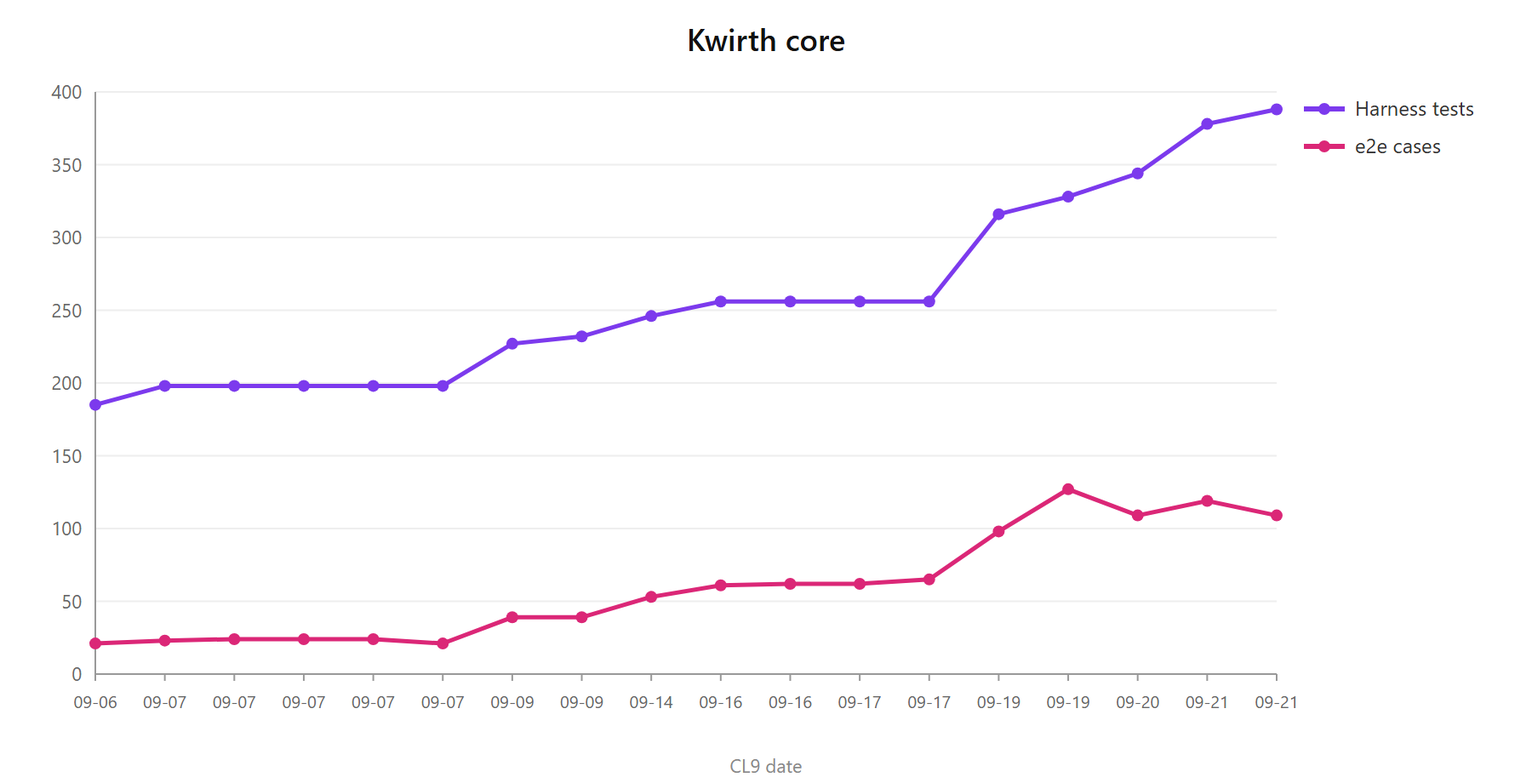
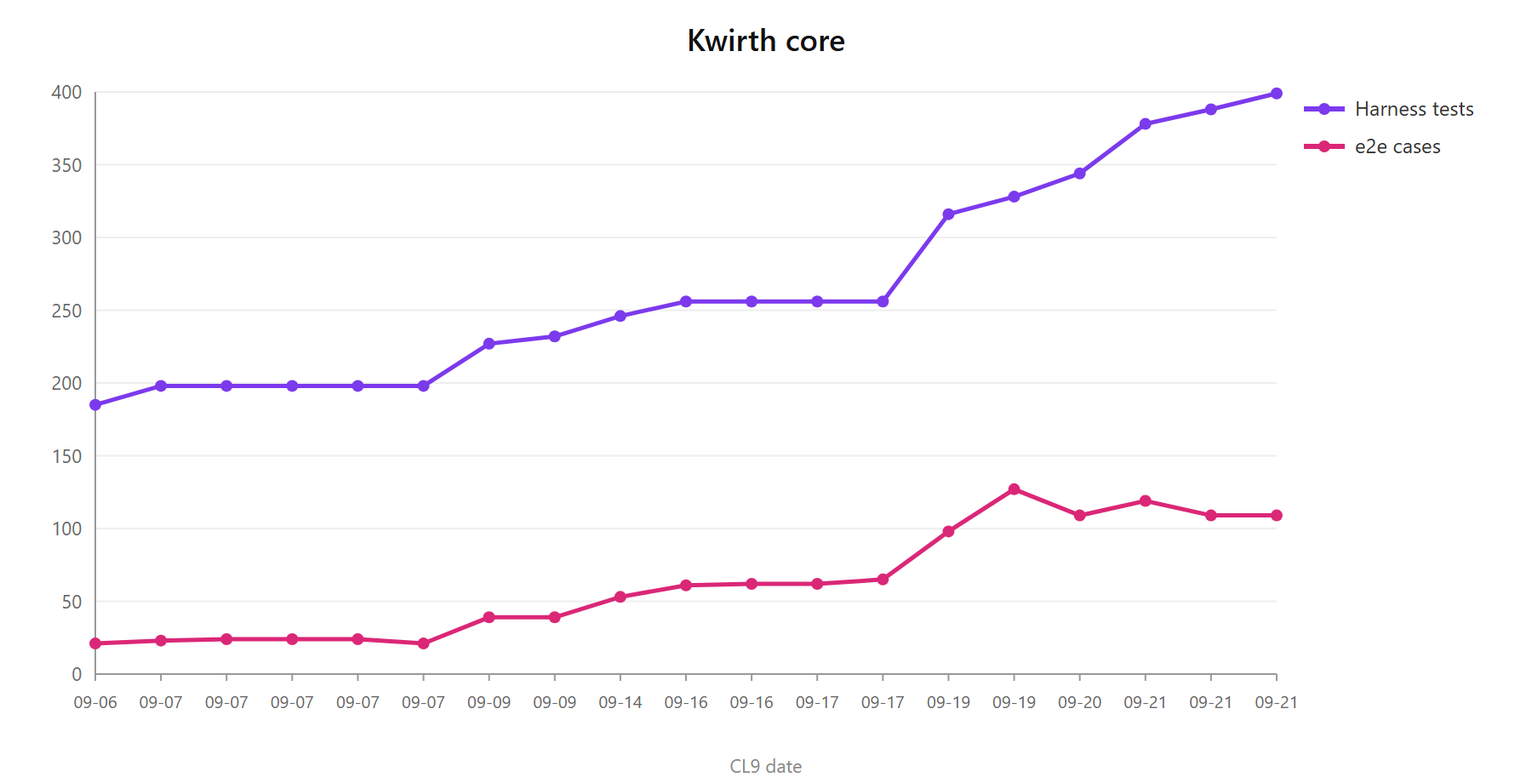
test(core): la cobertura estaba mal medida, y theme/homepage no tenian un solo test
El 50% que veniamos apuntando era un artefacto: el runner bundleaba un fichero por test, cada
bundle arrastraba su PROPIA copia del src, y el informe los trataba como ficheros distintos —
hacia la MEDIA de esas copias en vez de la UNION, contando como no cubierto todo el src que ese
test concreto no toca. La pista estaba en el desglose, que listaba tests/.out/*.test.mjs y no src/.

Con el entry unico (el mismo arreglo que ya llevaban montag, agora y provider-debug) la MISMA
suite, sin un test nuevo, pasa de 50.92% a 79.23%.

Y lo que si es trabajo: ThemeManager y HomepageManager no tenian ningun test. Ahora llevan 11, que
fijan lo aprendido a base de sustos:
  · las dos formas de tgz —entradas en la raiz y dentro de package/— instalan igual;
  · un front que no cabe en el ConfigMap no se guarda ahi y se recupera del origen, con cache;
  · la cache se invalida al instalar y al desinstalar.

De paso se alinean con los otros cuatro managers: ya borraban la cache al desinstalar, pero NO al
instalar, que es justo el caso de actualizar — seguirian sirviendo el front viejo mientras el pod
siguiera vivo.

399 tests. El global queda en 78.78% porque esas ~490 lineas entran AHORA en el denominador: antes
no aparecian en el informe porque ningun test las importaba. Quedan 42 de 83 ficheros del src sin
aparecer en ningun test.

diff --git a/back/tests/tools/themeManager.test.ts b/back/tests/tools/themeManager.test.ts
@@ -1,0 +1,257 @@
+import { test } from 'node:test'
+import assert from 'node:assert/strict'
+import { mkdtempSync, mkdirSync, writeFileSync, rmSync, existsSync, readFileSync } from 'node:fs'
+import os from 'node:os'
+import path from 'node:path'
+import tar from 'tar'
+import { randomBytes } from 'node:crypto'
+import { ThemeManager } from '../../src/tools/ThemeManager'
+import { HomepageManager } from '../../src/tools/HomepageManager'
+import { IConfigMaps } from '../../src/tools/IConfigMap'
+import { cachedExtensionFile } from '../../src/tools/PackageRegistries'
+
+/*
+    Instalacion de temas y homepages, que son gemelos y no tenian ningun test.
+
+    Lo que importa aqui, y que se aprendio a base de sustos:
+
+      · un tgz puede traer las entradas en la RAIZ (los que armamos a mano) o dentro de 'package/' (todo
+        lo que sale de `npm publish`), y las dos formas tienen que instalar igual;
+      · un front que no cabe en el ConfigMap (~1 MiB por objeto en etcd) NO se guarda ahi: se marca
+        `frontStored: false` y se recupera del origen, con cache en /tmp;
+      · esa cache HAY que invalidarla al instalar y al desinstalar. No lleva la version en el nombre, asi
+        que sin borrarla una actualizacion seguiria sirviendo el front VIEJO mientras el pod siga vivo.
+*/
+
+interface IStoreView { configMaps: Map<string, any> }
+
+const makeConfigMaps = () => {
+    const store: IStoreView = { configMaps: new Map() }
+    const configMaps: IConfigMaps = {
+        write: async (name: string, data: any) => { store.configMaps.set(name, data) },
+        read: async (name: string, defaultValue?: any) => store.configMaps.has(name) ? store.configMaps.get(name) : defaultValue,
+        writeKey: async () => {},
+        readAllKeys: async () => ({})
+    }
+    return { configMaps, store }
+}
+
+interface IBundleOptions {
+    id?: string
+    version?: string
+    // true = entradas dentro de 'package/', como deja `npm publish`
+    npmLayout?: boolean
+    front?: string
+    // no incluir front.js, para el caso del bundle invalido
+    noFront?: boolean
+}
+
+// Un tgz de verdad en un directorio temporal: install() acepta rutas locales, asi que no hace falta red
+const makeBundle = (dir: string, options: IBundleOptions = {}): string => {
+    const id = options.id ?? 'santander'
+    const root = options.npmLayout ? path.join(dir, 'package') : dir
+    mkdirSync(root, { recursive: true })
+    writeFileSync(path.join(root, 'package.json'), JSON.stringify({
+        name: `@kwirthmagnify/kwirth-theme-${id}`,
+        id,
+        displayName: `${id} theme`,
+        version: options.version ?? '1.0.0',
+        description: 'a theme',
+    }))
+    if (!options.noFront) writeFileSync(path.join(root, 'front.js'), options.front ?? 'window.__theme = {}')
+    const tgz = path.join(dir, `${id}.tgz`)
+    const entries = options.noFront ? ['package.json'] : ['package.json', 'front.js']
+    tar.c({ file: tgz, cwd: root, sync: true, gzip: true }, entries)
+    return tgz
+}
+
+const tempDir = (): string => mkdtempSync(path.join(os.tmpdir(), 'kwirth-theme-test-'))
+
+/*
+    Un front que NO cabe en el ConfigMap. Tiene que ser incompresible de verdad: con texto periodico
+    gzip lo deja en nada y el front acaba cabiendo, que es justo lo contrario de lo que se quiere probar.
+    El tope efectivo son 800 KB de base64 DESPUES de gzip.
+*/
+const frontQueNoCabe = (): string => randomBytes(800_000).toString('base64')
+
+test('un tema se instala desde un tgz con las entradas en la raiz', async () => {
+    const dir = tempDir()
+    const { configMaps, store } = makeConfigMaps()
+    const tm = new ThemeManager(configMaps)
+    await tm.init()
+
+    const meta = await tm.install(makeBundle(dir))
+
+    assert.equal(meta.id, 'santander')
+    assert.equal(meta.version, '1.0.0')
+    assert.equal(meta.frontStored, true, 'un front pequeño cabe en el ConfigMap')
+    assert.deepEqual(tm.getInstalledIds(), ['santander'])
+    assert.equal(await tm.getFrontJs('santander'), 'window.__theme = {}')
+    // y queda en el indice, que es lo que lee el arranque siguiente
+    const index = store.configMaps.get('kwirth-themes-index')
+    assert.deepEqual(index.map((t: any) => t.id), ['santander'])
+
+    rmSync(dir, { recursive: true, force: true })
+})
+
+test('y tambien desde un tgz de npm, con todo dentro de package/', async () => {
+    const dir = tempDir()
+    const { configMaps } = makeConfigMaps()
+    const tm = new ThemeManager(configMaps)
+    await tm.init()
+
+    const meta = await tm.install(makeBundle(dir, { npmLayout: true, front: 'window.__theme = { npm: true }' }))
+
+    assert.equal(meta.id, 'santander')
+    assert.equal(await tm.getFrontJs('santander'), 'window.__theme = { npm: true }')
+
+    rmSync(dir, { recursive: true, force: true })
+})
+
+test('un tgz sin front.js no se instala a medias: falla y lo dice', async () => {
+    const dir = tempDir()
+    const { configMaps } = makeConfigMaps()
+    const tm = new ThemeManager(configMaps)
+    await tm.init()
+
+    await assert.rejects(() => tm.install(makeBundle(dir, { noFront: true })), /Invalid theme bundle/)
+    assert.deepEqual(tm.getInstalledIds(), [], 'y no deja el id registrado')
+
+    rmSync(dir, { recursive: true, force: true })
+})
+
+test('instalar dos veces el mismo id se rechaza', async () => {
+    const dir = tempDir()
+    const { configMaps } = makeConfigMaps()
+    const tm = new ThemeManager(configMaps)
+    await tm.init()
+
+    await tm.install(makeBundle(dir))
+    await assert.rejects(() => tm.install(makeBundle(dir)), /already installed/)
+
+    rmSync(dir, { recursive: true, force: true })
+})
+
+test('un front que no cabe en el ConfigMap no se guarda ahi, y se anota para recuperarlo del origen', async () => {
+    const dir = tempDir()
+    const { configMaps, store } = makeConfigMaps()
+    const tm = new ThemeManager(configMaps)
+    await tm.init()
+
+    const enorme = frontQueNoCabe()
+    const meta = await tm.install(makeBundle(dir, { front: enorme }))
+
+    assert.equal(meta.frontStored, false, 'se pasa del limite del ConfigMap')
+    assert.equal(store.configMaps.get('kwirth-theme-santander').code, undefined, 'y el codigo no se guarda')
+
+    rmSync(dir, { recursive: true, force: true })
+})
+
+test('cuando el front no esta guardado, se sirve lo cacheado en /tmp sin tocar la red', async () => {
+    const dir = tempDir()
+    const { configMaps } = makeConfigMaps()
+    const tm = new ThemeManager(configMaps)
+    await tm.init()
+
+    const enorme = frontQueNoCabe()
+    await tm.install(makeBundle(dir, { front: enorme }))
+
+    /*
+        La cache se rellena aqui a mano porque el camino real la llena tras DESCARGAR del origen, y este
+        test no toca la red a proposito: lo que se comprueba es que, estando la cache, no se descarga —que
+        es justo lo que evita bajarse el tarball entero en cada arranque.
+    */
+    const cache = cachedExtensionFile('theme', 'santander', 'front.js')
+    writeFileSync(cache, 'window.__theme = { fromCache: true }')
+
+    assert.equal(await tm.getFrontJs('santander'), 'window.__theme = { fromCache: true }')
+
+    rmSync(cache, { force: true })
+    rmSync(dir, { recursive: true, force: true })
+})
+
+test('desinstalar borra la cache de /tmp: reinstalar no puede servir el front anterior', async () => {
+    const dir = tempDir()
+    const { configMaps } = makeConfigMaps()
+    const tm = new ThemeManager(configMaps)
+    await tm.init()
+    await tm.install(makeBundle(dir))
+
+    const cache = cachedExtensionFile('theme', 'santander', 'front.js')
+    writeFileSync(cache, 'el viejo')
+
+    await tm.uninstall('santander')
+
+    assert.equal(existsSync(cache), false)
+    assert.deepEqual(tm.getInstalledIds(), [])
+
+    rmSync(dir, { recursive: true, force: true })
+})
+
+test('instalar una version nueva tambien borra la cache de la anterior', async () => {
+    const dir = tempDir()
+    const { configMaps } = makeConfigMaps()
+    const tm = new ThemeManager(configMaps)
+    await tm.init()
+
+    const cache = cachedExtensionFile('theme', 'santander', 'front.js')
+    writeFileSync(cache, 'el de la version vieja')
+
+    await tm.install(makeBundle(dir, { version: '2.0.0' }))
+
+    assert.equal(existsSync(cache), false, 'si sobrevive, una actualizacion sigue sirviendo el front viejo')
+
+    rmSync(dir, { recursive: true, force: true })
+})
+
+test('una homepage se instala igual que un tema, en los dos formatos de tgz', async () => {
+    for (const npmLayout of [false, true]) {
+        const dir = tempDir()
+        const { configMaps } = makeConfigMaps()
+        const hm = new HomepageManager(configMaps)
+        await hm.init()
+
+        const meta = await hm.install(makeBundle(dir, { id: 'welcome', npmLayout, front: 'window.__home = {}' }))
+
+        assert.equal(meta.id, 'welcome')
+        assert.equal(await hm.getFrontJs('welcome'), 'window.__home = {}')
+        assert.deepEqual(hm.getInstalledIds(), ['welcome'])
+
+        rmSync(dir, { recursive: true, force: true })
+    }
+})
+
+test('y su cache se invalida igual, al instalar y al desinstalar', async () => {
+    const dir = tempDir()
+    const { configMaps } = makeConfigMaps()
+    const hm = new HomepageManager(configMaps)
+    await hm.init()
+
+    const cache = cachedExtensionFile('homepage', 'welcome', 'front.js')
+    writeFileSync(cache, 'el viejo')
+    await hm.install(makeBundle(dir, { id: 'welcome' }))
+    assert.equal(existsSync(cache), false, 'al instalar')
+
+    writeFileSync(cache, 'otro viejo')
+    await hm.uninstall('welcome')
+    assert.equal(existsSync(cache), false, 'y al desinstalar')
+
+    rmSync(dir, { recursive: true, force: true })
+})
+
+test('el indice sobrevive a un reinicio: init() lo relee del ConfigMap', async () => {
+    const dir = tempDir()
+    const { configMaps } = makeConfigMaps()
+    const primero = new ThemeManager(configMaps)
+    await primero.init()
+    await primero.install(makeBundle(dir))
+
+    // otro manager sobre el mismo almacen es lo que pasa al reiniciar el proceso
+    const segundo = new ThemeManager(configMaps)
+    await segundo.init()
+
+    assert.deepEqual(segundo.getInstalledIds(), ['santander'])
+    assert.equal(await segundo.getFrontJs('santander'), 'window.__theme = {}')
+
+    rmSync(dir, { recursive: true, force: true })
+})

diff --git a/back/src/tools/HomepageManager.ts b/back/src/tools/HomepageManager.ts
@@ -5,7 +5,7 @@ import os from 'os'
 import path from 'path'
 import fs from 'fs'
 import zlib from 'zlib'
-import { downloadFile, packageHeaders, readTarballFile } from './PackageRegistries'
+import { cachedExtensionFile, downloadFile, dropCachedExtensionFiles, packageHeaders, readTarballFile } from './PackageRegistries'
 
 export interface IHomepageMeta {
     id: string
@@ -151,6 +151,9 @@ export class HomepageManager {
             if (this.installedIds.includes(meta.id))
                 throw new Error(`Homepage '${meta.id}' is already installed`)
 
+            // Una version nueva no puede heredar el front cacheado de la anterior
+            dropCachedExtensionFiles('homepage', meta.id)
+
             const frontJs = fs.readFileSync(frontPath, 'utf-8')
             const frontCompressed = zlib.gzipSync(Buffer.from(frontJs, 'utf-8')).toString('base64')
             meta.frontStored = frontCompressed.length <= CONFIGMAP_SIZE_LIMIT
@@ -201,8 +204,7 @@ export class HomepageManager {
         // Se sigue borrando la clave del preview aunque la funcionalidad ya no exista: puede haber
         // quedado escrita por una instalacion anterior, y desinstalar tiene que dejarlo todo limpio.
         await this.configMaps.write(`kwirth-homepage-${id}-preview`, null)
-        const cacheFile = path.join(os.tmpdir(), `kwirth-homepage-${id}-front.js`)
-        if (fs.existsSync(cacheFile)) fs.rmSync(cacheFile)
+        dropCachedExtensionFiles('homepage', id)
         logInfo(ELogComponent.CORE, `Homepage '${id}' uninstalled`)
     }
 
@@ -216,7 +218,7 @@ export class HomepageManager {
     }
 
     private async fetchJsFromSource(meta: IHomepageMeta): Promise<string | undefined> {
-        const cacheFile = path.join(os.tmpdir(), `kwirth-homepage-${meta.id}-front.js`)
+        const cacheFile = cachedExtensionFile('homepage', meta.id, 'front.js')
         if (fs.existsSync(cacheFile)) return fs.readFileSync(cacheFile, 'utf-8')
         if (!meta.installedFrom || meta.installedFrom === 'local') return undefined
         const tmpTgz = path.join(os.tmpdir(), `kwirth-homepage-${meta.id}-src-${Date.now()}.tgz`)

diff --git a/back/src/tools/ThemeManager.ts b/back/src/tools/ThemeManager.ts
@@ -5,7 +5,7 @@ import os from 'os'
 import path from 'path'
 import fs from 'fs'
 import zlib from 'zlib'
-import { downloadFile, packageHeaders, readTarballFile } from './PackageRegistries'
+import { cachedExtensionFile, downloadFile, dropCachedExtensionFiles, packageHeaders, readTarballFile } from './PackageRegistries'
 
 export interface IThemeMeta {
     id: string
@@ -151,6 +151,9 @@ export class ThemeManager {
             if (this.installedIds.includes(meta.id))
                 throw new Error(`Theme '${meta.id}' is already installed`)
 
+            // Una version nueva no puede heredar el front cacheado de la anterior
+            dropCachedExtensionFiles('theme', meta.id)
+
             const frontJs = fs.readFileSync(frontPath, 'utf-8')
             const frontCompressed = zlib.gzipSync(Buffer.from(frontJs, 'utf-8')).toString('base64')
             meta.frontStored = frontCompressed.length <= CONFIGMAP_SIZE_LIMIT
@@ -201,8 +204,7 @@ export class ThemeManager {
         // Se sigue borrando la clave del preview aunque la funcionalidad ya no exista: puede haber
         // quedado escrita por una instalacion anterior, y desinstalar tiene que dejarlo todo limpio.
         await this.configMaps.write(`kwirth-theme-${id}-preview`, null)
-        const cacheFile = path.join(os.tmpdir(), `kwirth-theme-${id}-front.js`)
-        if (fs.existsSync(cacheFile)) fs.rmSync(cacheFile)
+        dropCachedExtensionFiles('theme', id)
         logInfo(ELogComponent.CORE, `Theme '${id}' uninstalled`)
     }
 
@@ -216,7 +218,7 @@ export class ThemeManager {
     }
 
     private async fetchJsFromSource(meta: IThemeMeta): Promise<string | undefined> {
-        const cacheFile = path.join(os.tmpdir(), `kwirth-theme-${meta.id}-front.js`)
+        const cacheFile = cachedExtensionFile('theme', meta.id, 'front.js')
         if (fs.existsSync(cacheFile)) return fs.readFileSync(cacheFile, 'utf-8')
         if (!meta.installedFrom || meta.installedFrom === 'local') return undefined
         const tmpTgz = path.join(os.tmpdir(), `kwirth-theme-${meta.id}-src-${Date.now()}.tgz`)

diff --git a/docs/qa/test-metrics-history.md b/docs/qa/test-metrics-history.md
@@ -38,6 +38,7 @@
 
 | Fecha | Cierre | Harness | Cobertura (líneas / ramas / funcs) | e2e | Notas |
 |---|---|---|---|---|---|
+| 2026-09-21 | La cobertura del core estaba MAL MEDIDA (y dos managers sin un solo test) | **399** ✅ | 78.78 % / 83.18 % / 77.55 % | 34 specs · 109 casos | 🔴 **El 50 % que veníamos apuntando era un artefacto de medición.** El runner del back bundleaba **un fichero por test**, así que cada bundle arrastraba su **propia copia del `src`** y el informe los trataba como ficheros distintos: hacía la **media** de esas copias en vez de la **unión**, contando como no cubierto todo el `src` que ese test concreto no toca. Encima el desglose listaba `tests/.out/*.test.mjs`, no `src/`, que es la pista que lo delató. Con el entry único —el mismo arreglo que ya llevaban montag, agora y provider-debug— la misma suite, **sin un test nuevo**, pasa de 50.92 a **79.23 %**. El salto es de medición, no de trabajo. ⚠ El número incluye el código de los propios tests dentro del bundle, así que está algo por encima de la cobertura pura de `src/`; es el mismo criterio que usan los plugins, y por eso es comparable con ellos. **Y lo que sí es trabajo**: `ThemeManager` y `HomepageManager` no tenían **ningún** test —42 de los 83 ficheros del `src` siguen sin aparecer en ninguno— y ahora llevan **11**, que fijan lo que se aprendió a base de sustos: las dos formas de tgz (raíz y `package/`) instalan igual, un front que no cabe en el ConfigMap no se guarda ahí y se recupera del origen con caché, y esa caché se invalida al instalar y al desinstalar. De paso se alinearon con los otros cuatro managers: ya borraban al desinstalar, pero **no al instalar**, que es justo el caso de actualizar. ℹ El global baja de 79.23 a 78.78 porque esas ~490 líneas **entran ahora en el denominador**: antes no salían en el informe porque ningún test las importaba. Un test propio cazó un error mío: el front 'enorme' era texto periódico, gzip lo dejaba en nada y cabía en el ConfigMap; hay que generarlo incompresible (`randomBytes`). |
 | 2026-09-21 | Un fallo de una extensión ya no tumba el core, y la caché de /tmp se invalida | **388** ✅ | 50.92 % / 75.23 % / 50.38 % | 34 specs · 109 casos | **El core se moría por una promesa sin `catch` de una extensión ajena.** `unhandledRejection` se trataba siempre como fatal: `exitAndLog()` se llevaba el pod por delante, con todos sus canales y todos sus usuarios dentro. Bastaba suscribirse al provider `trivy` sin payload desde provider-debug. Ahora el fallo se **atribuye por el stack** —el core carga cada back desde `/tmp/kwirth-<tipo>-<id>-back.js`, así que ahí está su rastro—: si es de una extensión se **aísla**, se deja traza con su nombre y Kwirth sigue sirviendo. La heurística es a propósito **conservadora**: lo que no se puede atribuir se sigue tratando como fallo del core y el proceso sale, porque ahí sí puede haber quedado un estado del que no conviene fiarse. En `tools/FailureOrigin.ts`, **+7 tests** (incluido el caso asimétrico: un stack del core no se atribuye a nadie). **Y la caché de `/tmp`, que era media solución.** `ProviderManager` no cacheaba lo que bajaba del origen, así que un back que no cabe en el ConfigMap se descargaba entero en cada arranque (914 KB en `trivy`) y el provider se quedaba fuera si el registro no respondía justo entonces. Al ir a copiar el patrón de plugin apareció el defecto de fondo: **ninguno de los cuatro invalidaba su caché**. El nombre no lleva la versión —quien la lee al arrancar solo conoce el id—, así que una actualización seguía cargando el js **viejo** mientras el pod siguiera vivo, y `/tmp` sobrevive a reiniciar el proceso. Ahora provider cachea, los cuatro borran al instalar y al desinstalar, y el nombre vive en un solo sitio (`cachedExtensionFile` / `dropCachedExtensionFiles`) para que el borrado y la lectura no puedan divergir. **+3 tests.** ℹ Sin casos e2e nuevos: nada de esto es observable desde la UI —un rechazo aislado se ve en el log del core, y la caché vive en el sistema de ficheros del pod—, así que lo cubre el harness. |
 | 2026-09-21 | Portabilidad de configuración: llevarse un Kwirth entero a otro | **378** ✅ | 50.78 % / 75.04 % / 50.09 % | 36 specs · 119 casos | **Un fichero que se saca de un Kwirth y se mete en otro, sin que el core entienda lo que transporta.** La restricción que manda sobre el diseño es que **el core no sabe dónde vive la configuración de una extensión**: Excubitor y Agora la guardan en su propio Postgres, mezclada con datos de trabajo —sus reglas y sus salas son configuración; sus findings y sus mensajes, no—, y solo el plugin sabe cuál es cuál. Nuevo contrato **`IExtension`** en `common-back` —la primera interfaz común a las once familias, que `IChannel`, `IProvider`, `ISender`, `IWebhook` e `IIdpConnector` extienden—, con `exportConfig`/`importConfig` **opcionales**: una extensión ya publicada sigue funcionando sin tocarla. Eso es lo que permite entregar esto sin republicar de golpe los siete de pago. ⚠ **Opcional no es *fallback*:** quien no lo implementa se declara y no se exporta nada suyo — si el core copiase por su cuenta las claves que conoce, produciría un fichero que *parece* completo y llega al destino sin la mitad. **El giro del día:** no toda la configuración de una extensión la guarda ella. Un sender no puede listar sus propias configuraciones, un conector de IdP no puede enumerar sus instancias (la relación es 1→N y apunta al revés) y ningún toolset conoce sus concesiones: eso lo guarda el CORE. Así que el core **fabrica el interlocutor** (`CoreManagedConfig` + `combine()`) y lo pone donde iría la instancia — sin tipo nuevo ni cambio de formato, porque `ConfigBundleManager` sigue llamando a los dos mismos métodos sin saber quién responde. Con eso **casi toda extensión exporta algo desde el primer día**, sin que su autor mueva un dedo. ⚠ **Secretos por esquema:** el core no sabe qué campo de un sender es una contraseña, se lo dice su `getConfigSchema()` (`type: 'password'`); sin credenciales se **vacían**, no se omiten, para que el destino sepa cuáles rellenar — y si una extensión **no publica esquema**, su configuración no sale, antes que arriesgar una contraseña en claro en un fichero que acaba en Descargas. El import hace **solo** cuatro cosas: busca, ignora con aviso si no está, ignora con aviso si no implementa, y entrega; una entrada rota **no detiene** a las demás. El bundle es un JSON legible con `formatVersion` desde el primer día. **UI:** los botones Export/Import que ya existían en Settings → Kwirth pasan a manejar la configuración entera, con la lista **por bloques** (General + uno por tipo de extensión, cada uno con su casilla) y respetando las dos promesas que ese diálogo ya hacía: *lo que ves es lo que te llevas* y *nada se guarda hasta OK*. El formato antiguo (`kwirth-settings`) se sigue aceptando al importar. **+33 tests** (18 del transporte + 15 de la config gestionada por el core, centrados en que no se escape un secreto) y **+1 spec e2e con 9 casos** contra el back real, incluido exportar→importar y comprobar que no cambia nada. Adaptadas: **censor**, **pinocchio** (sus triggers; ni los LLMs del almacén común ni el playground) y **provider/http-pull-push** (conserva las credenciales existentes al importar un fichero sin ellas). Los scaffolders de **provider** y **plugin** generan ya el bloque, con las tres reglas que se olvidan. Cascada: `kwirth-common` **0.5.52**, `kwirth-common-back` **0.5.47**. ℹ Hallazgos anotados, no tocados: `IdpManager.loadDevIdpConfigs()` existe y **nadie lo llama**, así que la sección `idpConfigs` de `kwirth-dev.json` no se siembra nunca; y `POST /core/idps` respondió 404 al crear una instancia. |
 | 2026-09-20 | Recuperar extensiones que no caben en el ConfigMap, y el log del contenedor anterior | **344** ✅ | 49.79 % / 74.07 % / 47.66 % | 34 specs · 109 casos | **Una extensión grande se instalaba bien y desaparecía al primer reinicio.** El `back.js` que no cabe en el ConfigMap (tope de 800 KB comprimido) no se guarda: se vuelve a bajar del origen **en cada arranque**. Y ahí, al contrario que en `install()`, solo se miraba la raíz del tarball extraído — pero un tgz de `npm publish` mete todo dentro de `package/`. El síntoma era un ENOENT sobre `/tmp/kwirth-provider-<id>-src-*/back.js` y, detrás, `Required provider 'trivy' is not registered`. Lo cantó `trivy`, hoy el **único** de los 40 bundles del repo que pasa del límite (1206 KB; el segundo es `senders/email-resend` con 536 KB). Arreglado en un solo sitio, `readTarballFile()` en `PackageRegistries` —el módulo que ya centralizó la descarga por este mismo motivo—, y usado por los **siete** managers con recuperación: provider, plugin, sender y webhook lo tenían mal; theme y homepage llevaban el fallback copiado a mano y aitoolset otra variante. **+6 tests.** ⚠ **Y el core se moría sin decir por qué**: `exitAndLog()` imprimía `JSON.stringify(reason)`, que sobre un `Error` da exactamente `{}`. Ahora imprime el stack, también en el ConfigMap `kwirth-secure-log`, que es donde se mira el post-mortem. Se descubrió persiguiendo un `unhandled rejection` del provider `trivy` que tumbaba el core entero (arreglado en `provider/trivy@0.1.9`). **Nuevo: el log del contenedor anterior en el About.** Al arrancar en kubernetes y dentro del cluster, el core lee `lastState.terminated` de su propio contenedor y, si reinició, sus últimas 1000 líneas con `previous: true` (`PREVIOUSLOGLINES` lo cambia). Se guarda **en memoria** —en cada arranque se relee, así que persistirlo daría siempre algo más viejo— y se sirve por `GET /managekwirth/previouslog`, **solo con scope admin**: son trazas internas del core. El About lo enseña con un botón que se queda visible aunque no se pueda usar, con el motivo en el tooltip, y si la salida fue anómala se avisa por notificación **una vez por reinicio** (se recuerda la marca de tiempo de aquella muerte, así que recargar la SPA no repite el aviso). ⚠ `--previous` solo existe si el contenedor reinició **dentro del mismo pod**: tras un rollout el pod es otro y el kubelet no guarda nada, y la UI distingue ese caso de "reinició pero el log ya no está". **+10 tests** y **+1 spec e2e** (2 casos) que comprueba el camino entero UI → autorización → core. El ajuste en la pantalla de settings queda pendiente: obliga a publicar `kwirth-common`. ℹ Los casos e2e se cuentan con `grep "^\s*test("` sobre `front/e2e/tests/*.spec.ts`; el 127 de la fila anterior salió de otro criterio — no se ha borrado ningún spec, hoy hay 34 ficheros frente a 33. |
